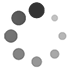
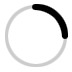
초기 이미지 로딩 완료후, 이용자 이용 시작

Changed region(s): [[0.0556, 0.0278, 0.9444, 0.9444]]

diff --git a/paintee-mobile/src/main/webapp/js/index/upload.js b/paintee-mobile/src/main/webapp/js/index/upload.js
@@ -211,7 +211,7 @@ function failUpload(){
 
 	var uploadFail = new Upload();
 	uploadFail.setTitle("Upload Painting");
-	uploadFail.setContents('<span data-i18n="[html]uploadPop.failContent" style='color:rgb(150,0,0)></span>');
+	uploadFail.setContents('<span data-i18n="[html]uploadPop.failContent" style="color:rgb(150,0,0)"></span>');
 	uploadFail.setBottom("<div class='popup_btn upload_btn uploadFileBox'><label for='painteeFile' class='upload_btn_text'>Select image file </label><img class='icon' src='ico/folder.png'><input type='file' id='painteeFile' name='painteeFile' title='' class='upload-input-hidden' /></div>");
 	uploadFail.buildUpload();
 

diff --git a/paintee-mobile/src/main/webapp/index.html b/paintee-mobile/src/main/webapp/index.html
@@ -365,7 +365,14 @@
 		</div>
 		<div class="return_btn" style="z-index:50;"><img class="icon" src="ico/close.png"></div>
     </div>
-
+    <!--   이미지 로딩 완료후 화면표시  -->
+    <div class="splash">
+        <div class="splash_box">
+            <div class="home_title">Paintee</div>
+            <br>
+            <img src='spinner_white.png' class='spinner'>
+        </div>
+    </div>
 	<!--  spinner 표출시 마우스 입력을 막는 div  -->
 	<div class="stopper"></div>
 

diff --git a/paintee-mobile/src/main/webapp/css/style.css b/paintee-mobile/src/main/webapp/css/style.css
@@ -1473,6 +1473,24 @@ body{
 }
 
 /* 4.3 수정 */
+.splash{
+    width: 100%;
+    height: 100%;
+    position: absolute;
+    z-index: 80;
+    top: 0px;
+    left: 0px;
+    text-align: center;
+    background-color: hsla(260,60%,50%,1);
+    vertical-align: middle;
+}
+.splash_box{
+    position: absolute;
+    width: 100%;
+    top:40%;
+    height:200px;
+    margin-top:-100px;
+}
 .stopper{
 	position: absolute;
 	width: 100%;

diff --git a/paintee-mobile/src/main/webapp/js/index/init.js b/paintee-mobile/src/main/webapp/js/index/init.js
@@ -736,3 +736,15 @@ $(".side_menu_lang_select").change(function(event) {
 		);
 	} 
 });
+
+/**
+ *  초기 이미지 로딩 완료후 사용자 이용시작
+ */
+$(".stopper").show();
+var imgChecher = setInterval(function(){
+    if($(".list_painting").last()[0].complete){
+        $(".stopper").hide();
+        $(".splash").fadeOut(3000);
+        clearInterval(imgChecher);
+    }
+}, 500)
